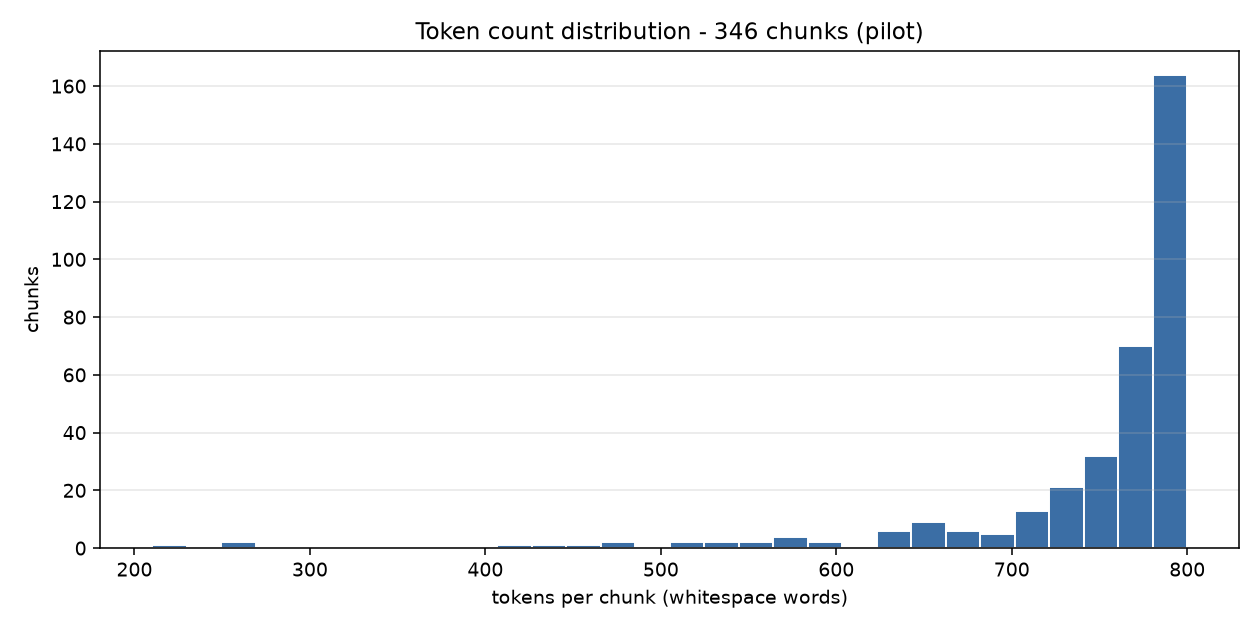
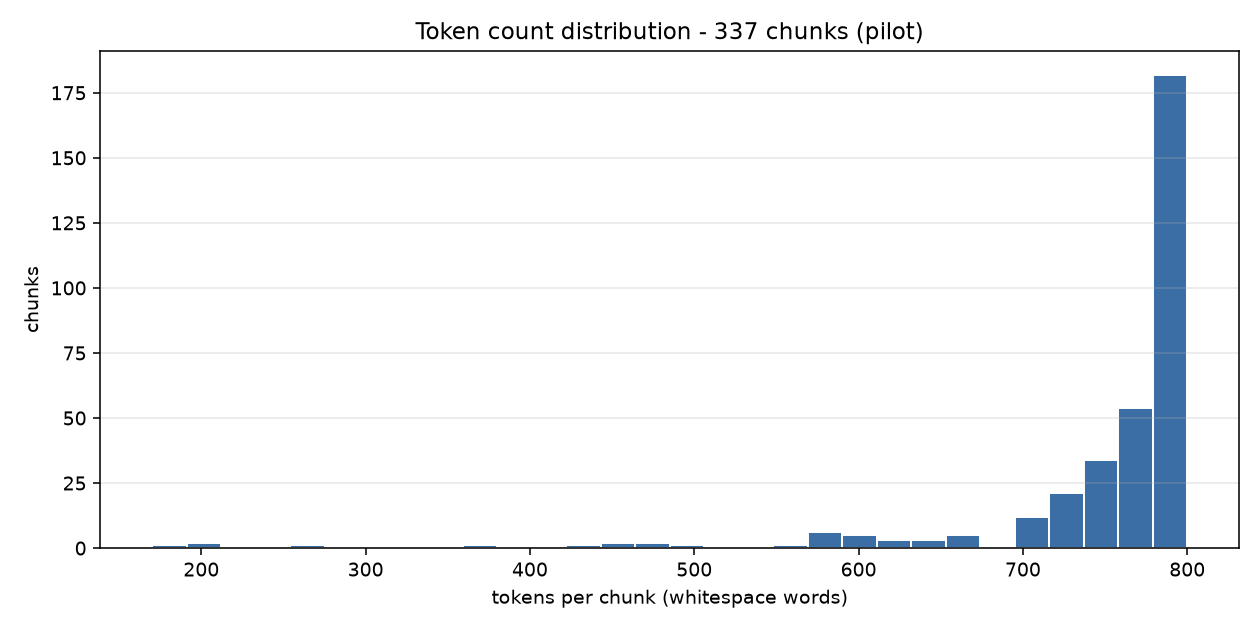
Repair displaced diacritics at ingest; log short-fragment residue for review
The source PDF emits each vocalized word's diacritics as separate zero-width glyphs
placed out of sequence, so every extractor breaks the word: printed "qlmk+kasra" comes
out as "qlm <space> kasra k". Glyph geometry showed a mark's x0 coincides with its base
letter's x0 to ~0.06pt and the base always follows the mark, so where the mark is
preceded by something that cannot carry it the reattachment is deterministic.

ingest_dialect_dictionary.py now repairs those before writing interim JSON, and records
per-region repair counts. Corpus-level effect on chunks.jsonl:

  detached marks   13,187 -> 5,294   (59.9% reattached)
  short-token rate 16.81% -> 14.12%  (42,779 -> 34,985 tokens)

Validated against visual ground truth: page 797 rendered at 300dpi prints the repaired
forms as single words with attached marks. Ambiguous marks (already preceded by a letter
or tatweel) are left untouched.

Two approaches were built, tested and REJECTED rather than shipped:
- a geometry-driven replacement extractor: reproduces only 10.7% of pdftotext -layout
  lines and transposes letters inside words (في -> يف), because cursive glyph boxes
  overlap. pdftotext -layout remains the extractor.
- dictionary-backed rejoining of short fragments (arramooz + clitic stripping): produced
  false confirmations, so the 5,619 residue tokens are logged for manual review instead
  of being silently joined.

The residue log is gitignored: unlike the damaged-pages log, its context column quotes
[…]

diff --git a/src/data_engineering/ingest_dialect_dictionary.py b/src/data_engineering/ingest_dialect_dictionary.py
@@ -8,6 +8,7 @@ Input : data/raw/<region>/dialect_dictionary_<region>.txt   (pdftotext -layout o
                                                               form-feed separated pages)
 Output: data/interim/<region>/<doc_id>.json                  (clean.py's input schema)
         docs/damaged_pages_review.csv                        (pages held back, for review)
+        docs/residue_tokens_review.csv                       (short fragments, for review)
 
 Why a page-aware step exists at all
 -----------------------------------
@@ -39,6 +40,7 @@ import re
 RAW_DIR = "data/raw"
 INTERIM_DIR = "data/interim"
 REVIEW_CSV = "docs/damaged_pages_review.csv"
+RESIDUE_CSV = "docs/residue_tokens_review.csv"
 
 # First printed page contained in each region's extract (see docs: verified against the
 # book's five part-title pages).
@@ -65,6 +67,95 @@ ARABIC_TOKEN_RE = re.compile(r"[ء-ٰٟـ]+")
 DAMAGE_TOKEN_LEN = 16
 DAMAGE_TOKEN_RATIO = 0.02
 
+# --- Displaced-diacritic repair ----------------------------------------------
+# The producer emits each vocalized word's diacritics as separate zero-width glyphs,
+# out of sequence relative to their base letters, so every extractor breaks the word:
+#     printed  "qlmk + kasra"   extracted  "qlm <space> kasra k"
+# Glyph geometry showed a mark's x0 coincides with its base letter's x0 to ~0.06pt, and
+# the base always FOLLOWS the mark. Where the mark is preceded by something that cannot
+# carry it (space, punctuation, line start) the attachment is unambiguous, so the repair
+# is a deterministic rewrite - no dictionary, no guessing.
+#
+# Deliberately NOT repaired: a mark already preceded by a letter or tatweel may be
+# correctly placed, and geometric ordering of cursive Arabic proved unreliable (a
+# geometry-driven extractor was built and validated against pdftotext -layout: it
+# transposes letters inside words, so it was rejected). Those marks stay as they are.
+LETTER_CLS = "ء-غف-ي"
+MARK_CLS = "ً-ٰٕۖ-ۭ"
+TATWEEL = "ـ"
+
+DETACHED_RE = re.compile(
+    r"(?P<pre>[" + LETTER_CLS + r"])[ ]+(?P<mk>[" + MARK_CLS + r"]+)(?P<base>[" + LETTER_CLS + r"])"
+)
+LEADING_MARK_RE = re.compile(
+    r"(?P<pre>^|[(){}\[\]«».,:؛،\-\"]|\n)"
+    r"(?P<mk>[" + MARK_CLS + r"]+)(?P<base>[" + LETTER_CLS + r"])",
+    re.M,
+)
+
+
+def repair_diacritics(text):
+    """Reattach unambiguously displaced marks. Returns (text, space_joins, mark_moves)."""
+    counts = {"join": 0, "move": 0}
+
+    def join(m):
+        counts["join"] += 1
+        return m.group("pre") + m.group("base") + m.group("mk")
+
+    def move(m):
+        counts["move"] += 1
+        return m.group("pre") + m.group("base") + m.group("mk")
+
+    prev, out = None, text
+    while prev != out:                      # marks can chain within one word
+        prev = out
+        out = DETACHED_RE.sub(join, out)
+    out = LEADING_MARK_RE.sub(move, out)
+    return out, counts["join"], counts["move"]
+
+
+def detached_mark_count(text):
+    """Marks with no valid base immediately before them (tatweel counts as a base)."""
+    mark = re.compile("[" + MARK_CLS + "]")
+    letter = re.compile("[" + LETTER_CLS + "]")
+    n = 0
+    for i, ch in enumerate(text):
+        if mark.match(ch):
+            p = text[i - 1] if i else ""
+            if not (letter.match(p) or mark.match(p) or p == TATWEEL):
+                n += 1
+    return n
+
+
+# Short tokens that survive the repair and are neither Arabic particles nor the
+# dictionary's own abbreviations. Logged for review, never auto-joined: a dictionary-
+# backed rejoin (arramooz + clitic stripping) was tested and produced false
+# confirmations, so this is a review list rather than a fix list.
+PARTICLES = set(("و في من ما لا ان "
+                 "أن إن ثم قد هو هي "
+                 "به له بك لك لم لن "
+                 "عن على إلى أو او "
+                 "يا ها اي أي كل مع "
+                 "بل هل كي إذ اذ "
+                 "لو").split())
+ABBREVIATIONS = set("ص ج د ع ح ش ق ط خ ض "
+                    "ف ك ل م ن ه ب ت ث ر "
+                    "ز س غ ي ا و ء".split())
+LETTER_ONLY_RE = re.compile("[" + LETTER_CLS + "]")
+
+
+def residue_tokens(text):
+    """(token, context) for <=2-letter tokens that look like fragments, not words."""
+    out = []
+    toks = text.split()
+    for i, t in enumerate(toks):
+        bare = "".join(LETTER_ONLY_RE.findall(t))
+        if not bare or len(bare) > 2 or bare in PARTICLES or bare in ABBREVIATIONS:
+            continue
+        out.append((t, " ".join(toks[max(0, i - 3):i + 4])[:120]))
+    return out
+
+
 
 def page_lines(page_text: str) -> list[str]:
     lines = [l.strip() for l in BIDI_RE.sub("", page_text).split("\n")]
@@ -84,7 +175,7 @@ def damage_score(lines: list[str]) -> tuple[float, str]:
     return len(bad) / len(toks), snippet.strip()[:160]
 
 
-def ingest_region(region: str, raw_path: str, first_page: int) -> tuple[dict, list[dict]]:
+def ingest_region(region: str, raw_path: str, first_page: int) -> tuple[dict, list[dict], list[dict]]:
     raw = io.open(raw_path, encoding="utf-8").read()
     pages = raw.split("\f")
     if pages and not pages[-1].strip():
@@ -92,7 +183,9 @@ def ingest_region(region: str, raw_path: str, first_page: int) -> tuple[dict, li
 
     kept_pages: list[str] = []
     damaged: list[dict] = []
-    kept_page_numbers: list[int] = []
+    residue: list[dict] = []
+    n_join = n_move = 0
+    detached_before = detached_after = 0
 
     for i, page in enumerate(pages):
         page_no = first_page + i
@@ -110,8 +203,26 @@ def ingest_region(region: str, raw_path: str, first_page: int) -> tuple[dict, li
                 "source_file": raw_path.replace("\\", "/"),
             })
             continue
-        kept_pages.append("\n".join(lines))
-        kept_page_numbers.append(page_no)
+
+        page_text = "\n".join(lines)
+        detached_before += detached_mark_count(page_text)
+        page_text, j, m = repair_diacritics(page_text)
+        n_join += j
+        n_move += m
+        detached_after += detached_mark_count(page_text)
+
+        # per-page so the review list carries a page number to look the token up on
+        for tok, ctx in residue_tokens(page_text):
+            residue.append({
+                "region": region,
+                "page": page_no,
+                "token": tok,
+                "context": ctx,
+                "action": "flagged_for_manual_review",
+                "note": "short fragment; no dictionary-safe rejoin available",
+            })
+
+        kept_pages.append(page_text)
 
     body = "\n\n".join(kept_pages)
     record = {
@@ -127,9 +238,18 @@ def ingest_region(region: str, raw_path: str, first_page: int) -> tuple[dict, li
         "pages_kept": len(kept_pages),
         "pages_excluded_damaged": len(damaged),
         "excluded_pages": [d["page"] for d in damaged],
+        "diacritic_repair": {
+            "space_joins": n_join,
+            "mark_moves": n_move,
+            "detached_marks_before": detached_before,
+            "detached_marks_after": detached_after,
+            "method": "deterministic reattachment of unambiguously displaced marks; "
+                      "ambiguous marks left untouched",
+        },
+        "residue_tokens_flagged": len(residue),
         "raw_text": body,
     }
-    return record, damaged
+    return record, damaged, residue
 
 
 def main() -> None:
@@ -137,9 +257,11 @@ def main() -> None:
     ap.add_argument("--raw-dir", default=RAW_DIR)
     ap.add_argument("--interim-dir", default=INTERIM_DIR)
     ap.add_argument("--review-csv", default=REVIEW_CSV)
+    ap.add_argument("--residue-csv", default=RESIDUE_CSV)
     args = ap.parse_args()
 
     all_damaged: list[dict] = []
+    all_residue: list[dict] = []
     summary = []
 
     for region, first_page in REGION_FIRST_PAGE.items():
@@ -148,8 +270,9 @@ def main() -> None:
             print(f"[ingest] MISSING {raw_path} - skipping {region}")
             continue
 
-        record, damaged = ingest_region(region, raw_path, first_page)
+        record, damaged, residue = ingest_region(region, raw_path, first_page)
         all_damaged.extend(damaged)
+        all_residue.extend(residue)
 
         out_dir = os.path.join(args.interim_dir, region)
         os.makedirs(out_dir, exist_ok=True)
@@ -158,9 +281,12 @@ def main() -> None:
             json.dump(record, f, ensure_ascii=False, indent=2)
 
         summary.append(record)
+        d = record["diacritic_repair"]
         print(f"[ingest] {region:<9} pages {record['pages_kept']:>4}/{record['pages_total']:<4} "
               f"(-{record['pages_excluded_damaged']} damaged)  "
-              f"{record['word_count']:>8,} words  -> {out_path}")
+              f"{record['word_count']:>8,} words | diacritics: {d['space_joins']:>5} joins, "
+              f"{d['mark_moves']:>4} moves, detached {d['detached_marks_before']:>5}"
+              f"->{d['detached_marks_after']:<5} | residue {record['residue_tokens_flagged']:>4}")
 
     os.makedirs(os.path.dirname(args.review_csv), exist_ok=True)
     with io.open(args.review_csv, "w", newline="", encoding="utf-8") as f:
@@ -169,12 +295,26 @@ def main() -> None:
         w.writeheader()
         w.writerows(sorted(all_damaged, key=lambda d: d["page"]))
 
+    with io.open(args.residue_csv, "w", newline="", encoding="utf-8") as f:
+        w = csv.DictWriter(f, fieldnames=["region", "page", "token", "context",
+                                          "action", "note"])
+        w.writeheader()
+        w.writerows(sorted(all_residue, key=lambda d: (d["region"], d["page"])))
+
     tot_pages = sum(r["pages_total"] for r in summary)
     tot_kept = sum(r["pages_kept"] for r in summary)
     tot_words = sum(r["word_count"] for r in summary)
     print(f"\n[ingest] {len(summary)} regions | pages {tot_kept:,}/{tot_pages:,} kept "
           f"({len(all_damaged)} excluded as damaged) | {tot_words:,} usable words")
+    jb = sum(r["diacritic_repair"]["space_joins"] for r in summary)
+    mv = sum(r["diacritic_repair"]["mark_moves"] for r in summary)
+    db = sum(r["diacritic_repair"]["detached_marks_before"] for r in summary)
+    da = sum(r["diacritic_repair"]["detached_marks_after"] for r in summary)
+    print(f"[ingest] diacritic repair: {jb:,} space-joins + {mv:,} mark-moves | "
+          f"detached marks {db:,} -> {da:,} ({(db-da)/max(db,1)*100:.1f}% reattached)")
+    print(f"[ingest] {len(all_residue):,} residue tokens flagged for manual review")
     print(f"[ingest] damaged-page review file -> {args.review_csv}")
+    print(f"[ingest] residue review file      -> {args.residue_csv}")
 
 
 if __name__ == "__main__":

diff --git a/data/eda/eda_report_saudi_dialect.md b/data/eda/eda_report_saudi_dialect.md
@@ -3,8 +3,8 @@
 - **Source corpus:** provided directly by the team, not from a public repo | **License:** unverified_pending_review
 - **Documents in:** 5
 - **Source format:** `dictionary` (explicit per batch; clean.py and chunk.py must agree)
-- **Chunks out:** 346
-- **Total tokens:** 259,497 (*whitespace_word_count* approximation)
+- **Chunks out:** 337
+- **Total tokens:** 252,802 (*whitespace_word_count* approximation)
 - **Pipeline:** `clean.py` -> `dedup.py` -> `chunk.py` -> `eda.py` (fully deterministic, no LLM calls)
 - **Text variant chunked:** `original` - orthography preserved; normalization was used for matching/dedup only.
 
@@ -14,30 +14,30 @@
 
 | statistic | tokens |
 | --- | ---: |
-| min | 210 |
-| p25 | 746 |
-| median (p50) | 778 |
+| min | 170 |
+| p25 | 751 |
+| median (p50) | 782 |
 | p75 | 793 |
 | p90 | 798 |
 | max | 800 |
-| mean | 750.0 |
+| mean | 750.2 |
 
-**346 / 346 chunks (100.0%) fall inside the 200-800 token target band.**
+**335 / 337 chunks (99.4%) fall inside the 200-800 token target band.**
 
 ```
 tokens/chunk        | histogram                                     count
-   210-   259 |                                                   2
-   259-   308 |                                                   1
-   308-   358 |                                                   0
-   358-   407 |                                                   0
-   407-   456 | #                                                 3
-   456-   505 |                                                   2
-   505-   554 | #                                                 5
-   554-   603 | #                                                 7
-   603-   652 | ##                                                9
-   652-   702 | ###                                              17
-   702-   751 | #######                                          42
-   751-   800 | ##############################################  258
+   170-   222 | #                                                 3
+   222-   275 |                                                   1
+   275-   328 |                                                   0
+   328-   380 |                                                   1
+   380-   432 |                                                   0
+   432-   485 | #                                                 5
+   485-   538 |                                                   1
+   538-   590 | #                                                 7
+   590-   642 | ##                                               11
+   642-   695 | #                                                 5
+   695-   748 | ########                                         43
+   748-   800 | ##############################################  260
 ```
 
 ![Token distribution](token_histogram_saudi_dialect.png)
@@ -46,18 +46,18 @@ tokens/chunk        | histogram                                     count
 
 | region | docs | chunks | share | tokens | median tokens |
 | --- | ---: | ---: | ---: | ---: | ---: |
-| najdi | 1 | 135 | 39.0% | 100,133 | 768 |
-| southern | 1 | 105 | 30.3% | 79,767 | 781 |
-| northern | 1 | 51 | 14.7% | 38,615 | 781 |
-| eastern | 1 | 30 | 8.7% | 22,556 | 782 |
-| western | 1 | 25 | 7.2% | 18,426 | 792 |
-| **total** | 5 | **346** | 100.0% | **259,497** | 778 |
+| najdi | 1 | 130 | 38.6% | 97,703 | 772 |
+| southern | 1 | 103 | 30.6% | 77,439 | 783 |
+| northern | 1 | 49 | 14.5% | 37,574 | 787 |
+| eastern | 1 | 30 | 8.9% | 22,007 | 793 |
+| western | 1 | 25 | 7.4% | 18,079 | 782 |
+| **total** | 5 | **337** | 100.0% | **252,802** | 782 |
 
 ### ⚠ Under-resourced regions - priority for additional sourcing
 
 | region | tokens | vs. median region | vs. largest region |
 | --- | ---: | ---: | ---: |
-| western | 18,426 | 48% | 18% |
+| western | 18,079 | 48% | 19% |
 
 **western** falls below 50% of the median regional token count. Additional sourcing here would do more for regional balance than more volume anywhere else in the corpus.
 
@@ -65,21 +65,21 @@ tokens/chunk        | histogram                                     count
 
 | doc_id | region | unit type | units | chunks | tokens |
 | --- | --- | --- | ---: | ---: | ---: |
-| dialect_dict_eastern | eastern | entry_headword | 872 | 30 | 22,556 |
-| dialect_dict_najdi | najdi | entry_headword | 2,159 | 135 | 100,133 |
-| dialect_dict_northern | northern | entry_headword | 1,192 | 51 | 38,615 |
-| dialect_dict_southern | southern | entry_headword | 2,830 | 105 | 79,767 |
-| dialect_dict_western | western | entry_headword | 791 | 25 | 18,426 |
+| dialect_dict_eastern | eastern | entry_headword | 872 | 30 | 22,007 |
+| dialect_dict_najdi | najdi | entry_headword | 2,159 | 130 | 97,703 |
+| dialect_dict_northern | northern | entry_headword | 1,192 | 49 | 37,574 |
+| dialect_dict_southern | southern | entry_headword | 2,830 | 103 | 77,439 |
+| dialect_dict_western | western | entry_headword | 791 | 25 | 18,079 |
 
 ### format_type distribution
 
 | format_type | chunks | share |
 | --- | ---: | ---: |
-| dictionary_entry | 346 | 100.0% |
+| dictionary_entry | 337 | 100.0% |
 
 ## 3. Cleaning stage and items flagged for review
 
-- Characters in: **1,589,826** -> retained: **1,537,432** (**3.30%** removed overall)
+- Characters in: **1,582,113** -> retained: **1,530,737** (**3.25%** removed overall)
 - Flag threshold: a document is flagged when cleaning removes more than **30%** of its characters
 - Diacritic stripping: **OFF** (default off - two children's books in this batch are fully vocalized)
 
@@ -87,11 +87,11 @@ Largest character deltas:
 
 | doc_id | region | chars in | chars retained | % removed | flags |
 | --- | --- | ---: | ---: | ---: | --- |
-| dialect_dict_northern | northern | 238,188 | 227,638 | 4.43% | - |
-| dialect_dict_najdi | najdi | 614,548 | 593,174 | 3.48% | - |
-| dialect_dict_southern | southern | 484,268 | 470,105 | 2.92% | - |
-| dialect_dict_eastern | eastern | 138,741 | 135,057 | 2.66% | - |
-| dialect_dict_western | western | 114,081 | 111,458 | 2.30% | - |
+| dialect_dict_northern | northern | 237,028 | 226,597 | 4.40% | - |
+| dialect_dict_najdi | najdi | 611,720 | 590,744 | 3.43% | - |
+| dialect_dict_southern | southern | 481,462 | 467,777 | 2.84% | - |
+| dialect_dict_eastern | eastern | 138,178 | 134,508 | 2.66% | - |
+| dialect_dict_western | western | 113,725 | 111,111 | 2.30% | - |
 
 ### Documents flagged during cleaning: **0**
 
@@ -99,7 +99,14 @@ None.
 
 ### Chunks flagged
 
-None.
+| flag | chunks | meaning |
+| --- | ---: | --- |
+| below_target_min | 2 | below 200 tokens - end-of-document tail, kept |
+
+| chunk_id | region | tokens | units | flags |
+| --- | --- | ---: | ---: | --- |
+| dialect_dict_eastern_c0029 | eastern | 170 | 5 | below_target_min |
+| dialect_dict_western_c0016 | western | 191 | 14 | below_target_min |
 
 ## 4. Deduplication
 
